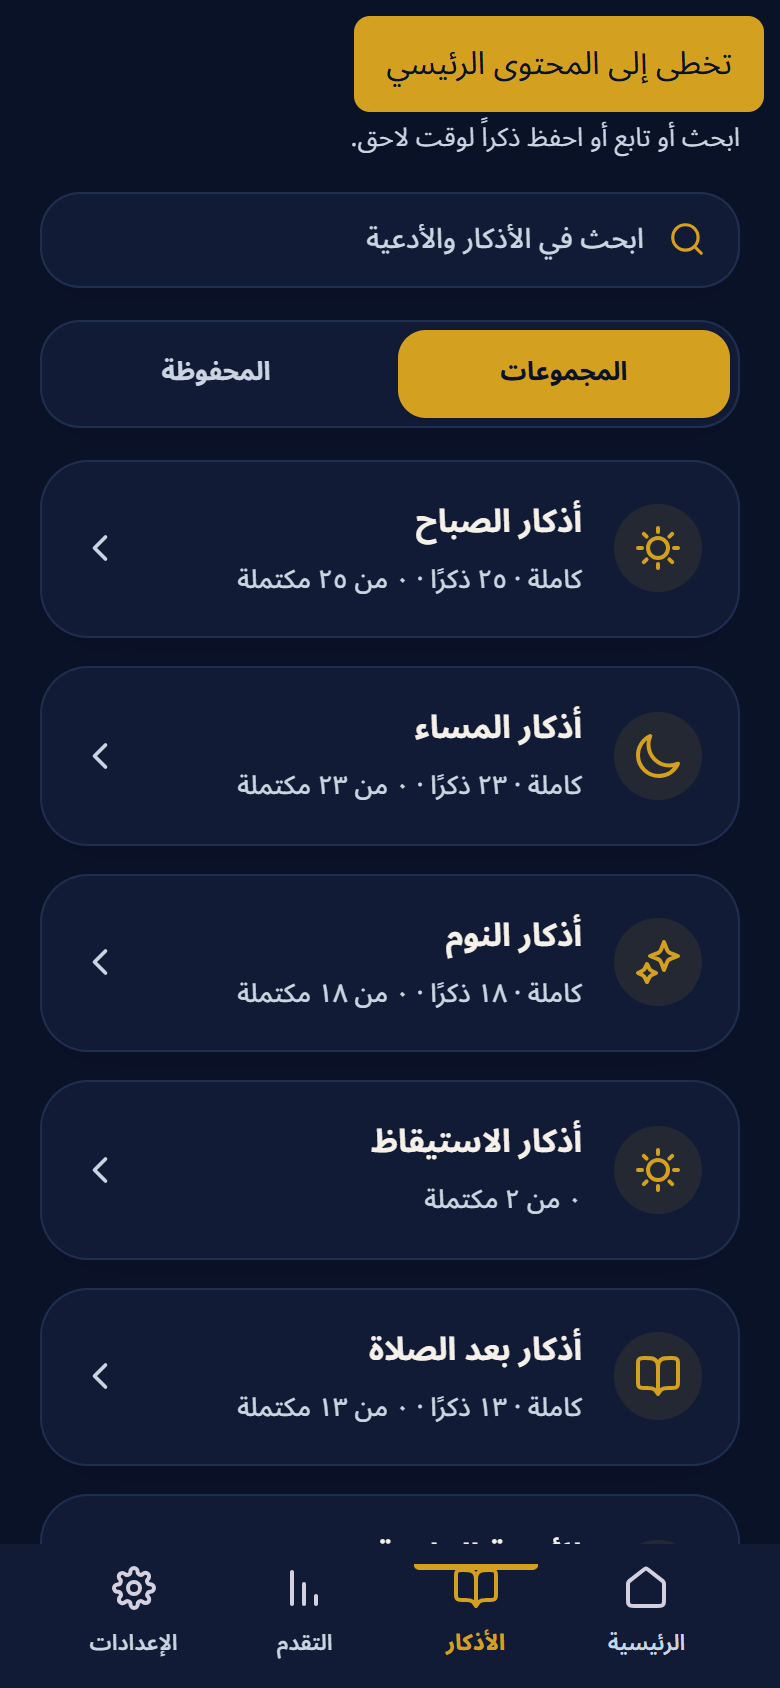
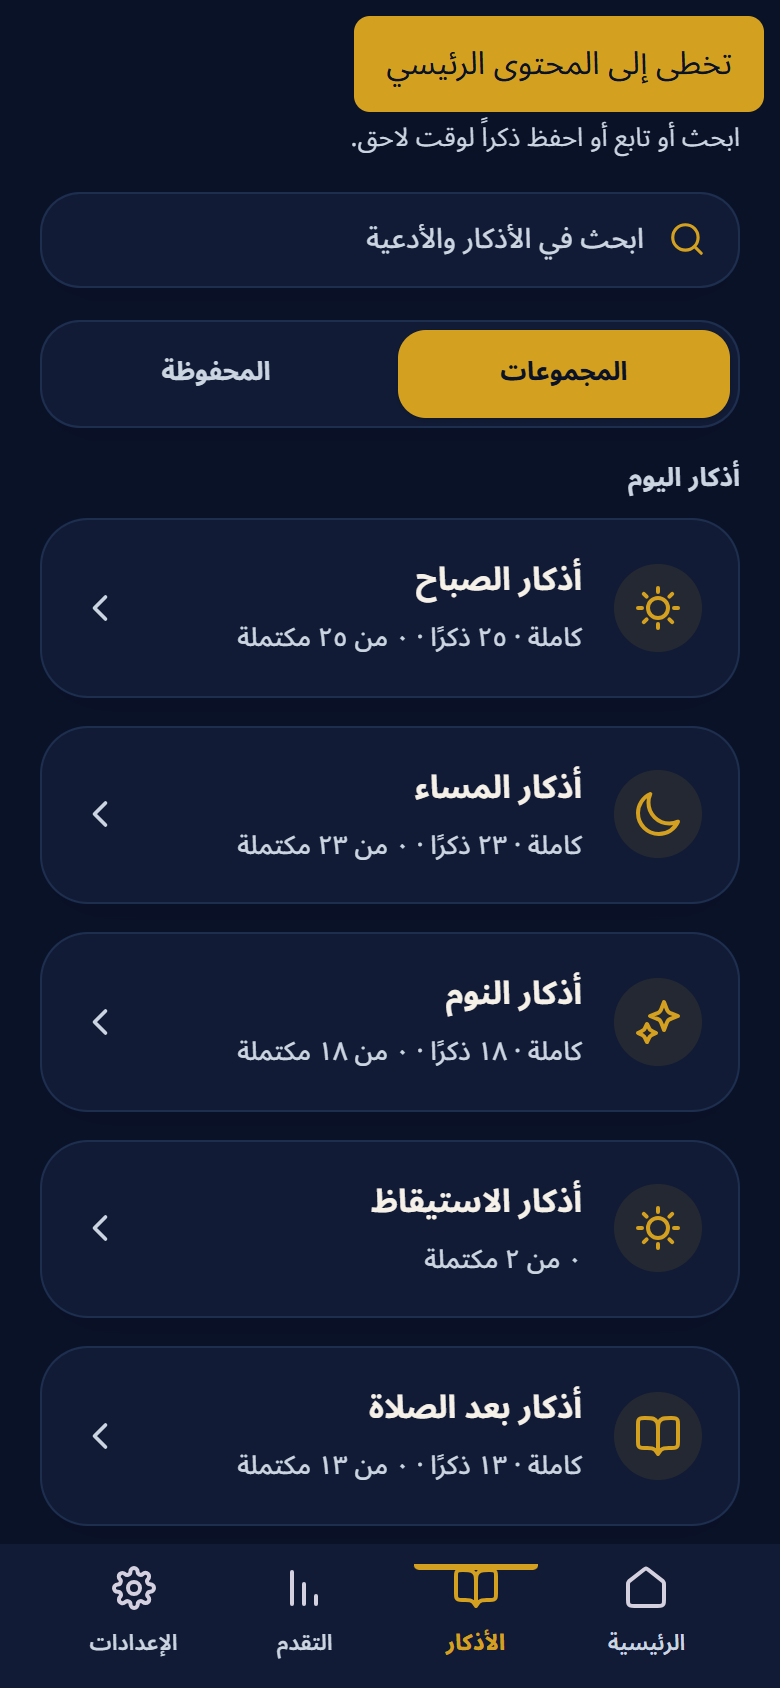
feat(library): group the collection index into five themes
Phase 06 deferred this because group names are a religious-content
decision, not a layout one. The grouping was proposed for review and
approved as drafted: Daily Azkar, Place & Travel, Everyday Life, Hardship
& Healing, More Azkar & Du'as.

Built on the routine/occasional split the data already encodes rather than
inventing a parallel taxonomy. Presentation-only: category IDs, ordering
within groups and all content are untouched, per the phase's prohibition on
ID migration. friday_kahf stays ungrouped because the Library already
filters it out — it is reached through the Friday screen.

A near-miss worth recording: the Arabic names first landed as mojibake
("Ø£Ø°ÙØ§Ø± Ø§ÙÙÙÙ") because the script writing them round-tripped UTF-8
through unicode_escape. Every test passed — unit, e2e and axe — because
none asserted on Arabic copy. It was caught only by looking at a rendered
screenshot.

So this also adds i18n/encoding.test.ts, which scans the whole Arabic
bundle for Latin-1 mojibake and names the offending key path. Verified by
reintroducing the corruption and confirming it fails. It protects all
Arabic copy, not just these five strings.

categoryGroups.test.ts asserts every Library category appears in exactly
one group and that none is empty, so a future category cannot be silently
dropped from the index.

Recorded as DEC-036. 274 unit + 253 e2e passing.

diff --git a/src/app/screens/AzkarLibraryScreen.tsx b/src/app/screens/AzkarLibraryScreen.tsx
@@ -13,7 +13,7 @@ import {
   isRoutineCategory,
   registerLazyCollection,
 } from "../content/azkar";
-import { CATEGORIES, isOccasionalCategory } from "../content/categories";
+import { CATEGORIES, CATEGORY_GROUPS, isOccasionalCategory } from "../content/categories";
 import { COMPREHENSIVE_DUAS } from "../content/comprehensiveDuas";
 import { formatNumerals } from "../formatting";
 import { t } from "../i18n";
@@ -96,64 +96,77 @@ export function AzkarLibraryScreen({
         >
           {section === "collections" ? (
             <>
-              <div className="grid grid-cols-1 md:grid-cols-2 gap-3.5">
-                {CATEGORIES.filter((category) => category.id !== "friday_kahf").map((category) => {
-                  const isComprehensiveDuas = category.id === "comprehensive_duas";
-                  const routineMode = isRoutineCategory(category.id) ? routineModes[category.id] : "complete";
-                  const visibleItems = isComprehensiveDuas
-                    ? COMPREHENSIVE_DUA_ITEMS
-                    : getAzkarForMode(category.id, routineMode);
-                  const progress = isRoutineCategory(category.id)
-                    ? getRoutineProgress(category.id, routineMode, completed[category.id] ?? [])
-                    : {
-                        done: visibleItems.filter((item) => completed[category.id]?.has(item.id)).length,
-                        total: visibleItems.length,
-                      };
-                  const { done, total } = progress;
-                  const isOccasional = isOccasionalCategory(category.id);
-                  const routineSummary = isRoutineCategory(category.id)
-                    ? t(language, `category.${routineMode}Summary`, { count: formatNumerals(total, language) })
-                    : undefined;
-                  const progressLabel = t(language, "library.progressOfTotal", {
-                    done: formatNumerals(done, language),
-                    total: formatNumerals(total, language),
-                  });
-
-                  return (
-                    <CategoryCard
-                      key={category.id}
-                      id={category.id}
-                      title={isArabic ? category.nameArabic : category.name}
-                      icon={category.icon}
-                      direction={direction}
-                      isOccasional={isOccasional}
-                      totalCount={total}
-                      completedCount={done}
-                      routineSummary={routineSummary}
-                      progressText={t(language, "library.progressOfTotal", {
+              {CATEGORY_GROUPS.map((group) => (
+                <section key={group.id} aria-labelledby={`library-group-${group.id}`} className="mb-6 last:mb-0">
+                  <h2
+                    id={`library-group-${group.id}`}
+                    className="mb-2.5 text-[0.8125rem] font-bold uppercase tracking-wide text-muted-foreground"
+                    dir="auto"
+                  >
+                    {t(language, `library.groups.${group.labelKey}`)}
+                  </h2>
+                  <div className="grid grid-cols-1 md:grid-cols-2 gap-3.5">
+                    {group.categories.map((categoryId) => {
+                      const category = CATEGORIES.find((item) => item.id === categoryId);
+                      if (!category) return null;
+                      const isComprehensiveDuas = category.id === "comprehensive_duas";
+                      const routineMode = isRoutineCategory(category.id) ? routineModes[category.id] : "complete";
+                      const visibleItems = isComprehensiveDuas
+                        ? COMPREHENSIVE_DUA_ITEMS
+                        : getAzkarForMode(category.id, routineMode);
+                      const progress = isRoutineCategory(category.id)
+                        ? getRoutineProgress(category.id, routineMode, completed[category.id] ?? [])
+                        : {
+                            done: visibleItems.filter((item) => completed[category.id]?.has(item.id)).length,
+                            total: visibleItems.length,
+                          };
+                      const { done, total } = progress;
+                      const isOccasional = isOccasionalCategory(category.id);
+                      const routineSummary = isRoutineCategory(category.id)
+                        ? t(language, `category.${routineMode}Summary`, { count: formatNumerals(total, language) })
+                        : undefined;
+                      const progressLabel = t(language, "library.progressOfTotal", {
                         done: formatNumerals(done, language),
                         total: formatNumerals(total, language),
-                      })}
-                      occasionalSubtitle={`${formatNumerals(total, language)} ${isArabic ? "أذكار سياقية" : "Occasional supplications"}`}
-                      ariaLabel={
-                        isOccasional
-                          ? `${isArabic ? category.nameArabic : category.name}, ${formatNumerals(total, language)} ${
-                              isArabic ? "أذكار" : "supplications"
-                            }`
-                          : [isArabic ? category.nameArabic : category.name, routineSummary, progressLabel]
-                              .filter(Boolean)
-                              .join(", ")
-                      }
-                      onClick={() => {
-                        if (isComprehensiveDuas) {
-                          registerLazyCollection("comprehensive_duas", COMPREHENSIVE_DUAS);
-                        }
-                        onCategory(category.id);
-                      }}
-                    />
-                  );
-                })}
-              </div>
+                      });
+
+                      return (
+                        <CategoryCard
+                          key={category.id}
+                          id={category.id}
+                          title={isArabic ? category.nameArabic : category.name}
+                          icon={category.icon}
+                          direction={direction}
+                          isOccasional={isOccasional}
+                          totalCount={total}
+                          completedCount={done}
+                          routineSummary={routineSummary}
+                          progressText={t(language, "library.progressOfTotal", {
+                            done: formatNumerals(done, language),
+                            total: formatNumerals(total, language),
+                          })}
+                          occasionalSubtitle={`${formatNumerals(total, language)} ${isArabic ? "أذكار سياقية" : "Occasional supplications"}`}
+                          ariaLabel={
+                            isOccasional
+                              ? `${isArabic ? category.nameArabic : category.name}, ${formatNumerals(total, language)} ${
+                                  isArabic ? "أذكار" : "supplications"
+                                }`
+                              : [isArabic ? category.nameArabic : category.name, routineSummary, progressLabel]
+                                  .filter(Boolean)
+                                  .join(", ")
+                          }
+                          onClick={() => {
+                            if (isComprehensiveDuas) {
+                              registerLazyCollection("comprehensive_duas", COMPREHENSIVE_DUAS);
+                            }
+                            onCategory(category.id);
+                          }}
+                        />
+                      );
+                    })}
+                  </div>
+                </section>
+              ))}
               {onOpenCustomCounter && (
                 <div className="mt-4">
                   <TasbeehCounterButton onClick={onOpenCustomCounter} language={language} direction={direction} />

diff --git a/src/app/i18n/encoding.test.ts b/src/app/i18n/encoding.test.ts
@@ -1,0 +1,36 @@
+import { describe, expect, it } from "vitest";
+import ar from "./ar";
+
+/** Sequences that only appear when UTF-8 Arabic has been decoded as Latin-1. */
+const MOJIBAKE = /[\u00d8\u00d9\u00da\u00c3\u00c2][\u0080-\u00bf]/;
+
+function collectStrings(value: unknown, path = "", out: Array<[string, string]> = []) {
+  if (typeof value === "string") {
+    out.push([path, value]);
+  } else if (value && typeof value === "object") {
+    for (const [key, child] of Object.entries(value)) {
+      collectStrings(child, path ? `${path}.${key}` : key, out);
+    }
+  }
+  return out;
+}
+
+describe("Arabic copy encoding", () => {
+  const entries = collectStrings(ar);
+
+  it("has no mojibake from a Latin-1 round trip", () => {
+    // A grouping label shipped as "Ø£Ø°ÙØ§Ø± Ø§ÙÙÙÙ" once because a script
+    // wrote the file through unicode_escape. Tests passed because they only
+    // asserted on English.
+    const corrupted = entries.filter(([, text]) => MOJIBAKE.test(text));
+    expect(corrupted.map(([path]) => path)).toEqual([]);
+  });
+
+  it("keeps Arabic script in Arabic copy", () => {
+    const arabic = /[\u0600-\u06ff]/;
+    // A handful of values are legitimately Latin (language names, codes), so
+    // this asserts the overwhelming majority rather than every entry.
+    const withArabic = entries.filter(([, text]) => arabic.test(text));
+    expect(withArabic.length / entries.length).toBeGreaterThan(0.8);
+  });
+});

diff --git a/src/app/content/categoryGroups.test.ts b/src/app/content/categoryGroups.test.ts
@@ -1,0 +1,34 @@
+import { describe, expect, it } from "vitest";
+import { CATEGORIES, CATEGORY_GROUPS } from "./categories";
+
+describe("CATEGORY_GROUPS", () => {
+  const grouped = CATEGORY_GROUPS.flatMap((group) => group.categories);
+
+  it("covers every library category exactly once", () => {
+    // friday_kahf is reached through the Friday screen, so the Library filters
+    // it out and it is deliberately ungrouped.
+    const expected = CATEGORIES.map((category) => category.id).filter((id) => id !== "friday_kahf");
+
+    expect([...grouped].sort()).toEqual([...expected].sort());
+    expect(new Set(grouped).size, "a category appears in more than one group").toBe(grouped.length);
+  });
+
+  it("does not group friday_kahf", () => {
+    expect(grouped).not.toContain("friday_kahf");
+  });
+
+  it("references only real categories", () => {
+    const known = new Set(CATEGORIES.map((category) => category.id));
+    for (const id of grouped) {
+      expect(known.has(id), `unknown category id in a group: ${id}`).toBe(true);
+    }
+  });
+
+  it("has no empty groups and uses unique ids", () => {
+    for (const group of CATEGORY_GROUPS) {
+      expect(group.categories.length, `${group.id} is empty`).toBeGreaterThan(0);
+    }
+    const ids = CATEGORY_GROUPS.map((group) => group.id);
+    expect(new Set(ids).size).toBe(ids.length);
+  });
+});

diff --git a/src/app/content/categories.ts b/src/app/content/categories.ts
@@ -38,3 +38,34 @@ export const ROUTINE_CATEGORY_IDS: ReadonlySet<CategoryId> = new Set([
 export function isOccasionalCategory(catId: CategoryId): boolean {
   return !ROUTINE_CATEGORY_IDS.has(catId);
 }
+
+/**
+ * Presentation-only grouping for the Library index.
+ *
+ * Category IDs, their order within a group, and all content are untouched —
+ * Phase 06 prohibits ID migration, and this exists purely so 17 collections
+ * scan as a short list of themes instead of one flat run.
+ *
+ * `friday_kahf` is deliberately absent: the Library already filters it out
+ * because it is reached through the Friday screen.
+ */
+export const CATEGORY_GROUPS: ReadonlyArray<{
+  id: string;
+  /** i18n key under `library.groups`. */
+  labelKey: string;
+  categories: readonly CategoryId[];
+}> = [
+  {
+    id: "daily",
+    labelKey: "daily",
+    categories: ["morning", "evening", "before_sleep", "waking_up", "after_prayer"],
+  },
+  { id: "place", labelKey: "place", categories: ["home", "mosque", "travel"] },
+  { id: "everyday", labelKey: "everyday", categories: ["food_drink", "restroom", "clothing"] },
+  { id: "hardship", labelKey: "hardship", categories: ["distress_anxiety", "illness_ruqyah"] },
+  {
+    id: "more",
+    labelKey: "more",
+    categories: ["comprehensive_duas", "social_community", "natural_events", "miscellaneous"],
+  },
+];

diff --git a/src/app/i18n/ar.ts b/src/app/i18n/ar.ts
@@ -135,6 +135,13 @@ const ar = {
     sourceLabel: "المصدر",
   },
   library: {
+    groups: {
+      daily: "أذكار اليوم",
+      place: "أذكار المكان والسفر",
+      everyday: "أذكار الحياة اليومية",
+      hardship: "أذكار الشدة والعافية",
+      more: "أذكار وأدعية أخرى",
+    },
     title: "مكتبة الأذكار",
     subtitle: "ابحث أو تابع أو احفظ ذكراً لوقت لاحق.",
     search: "ابحث في الأذكار والأدعية",

diff --git a/src/app/i18n/en.ts b/src/app/i18n/en.ts
@@ -133,6 +133,13 @@ const en = {
     sourceLabel: "Source",
   },
   library: {
+    groups: {
+      daily: "Daily Azkar",
+      place: "Place & Travel",
+      everyday: "Everyday Life",
+      hardship: "Hardship & Healing",
+      more: "More Azkar & Du'as",
+    },
     title: "Azkar Library",
     subtitle: "Search, continue, or save a remembrance for later.",
     search: "Search adhkar and duas",

diff --git a/docs/agent/DECISION_LOG.md b/docs/agent/DECISION_LOG.md
@@ -658,3 +658,18 @@ Record user-approved product, design and architectural decisions here. Do not er
 - **Fix and its consequence:** a dark scrim now sits behind the hero column in every theme. That surfaced a fourth failure the first three had masked — the gold heading used `text-primary`, which is a **dark** gold (`#835806`) in Light and dropped to 1.07:1 once the backing darkened. Rather than hardcode a hex, added `--on-media` / `--on-media-muted` / `--on-media-accent` tokens: content over photography sits on a dark scrim in every theme, so it needs light-on-dark values that deliberately do **not** follow `--primary`.
 - **Tests/evidence required:** 13 tests in the new spec. Contrast is asserted per mode with a named failure message so a regression identifies the mode. Full `pnpm check` + `pnpm test:e2e` (268 unit, 253 e2e).
 - **Supersedes:** None
+
+---
+
+## DEC-036 — Library taxonomy grouping
+
+- **Date:** 2026-08-07
+- **Status:** Approved
+- **Owner:** User (approved the proposed groups and names before implementation)
+- **Related phase:** Phase 06 (deferred item)
+- **Context:** Phase 06 Step 1 item 4 called for user-facing grouping without changing source content. It was deferred because group names are a religious-content decision, not a layout one. The grouping was proposed for review and approved as drafted.
+- **Decision:** Five presentation-only groups in `CATEGORY_GROUPS` — Daily Azkar (5), Place & Travel (3), Everyday Life (3), Hardship & Healing (2), More Azkar & Du'as (4). Built on the routine/occasional split the data already encodes rather than inventing a parallel taxonomy.
+- **Explicitly unchanged:** category IDs, ordering within groups, and all content. The phase prohibits ID migration and this respects that — `CATEGORY_GROUPS` references existing IDs and nothing else moves. `friday_kahf` stays ungrouped because the Library already filters it out; it is reached through the Friday screen.
+- **A corrupted-Arabic near-miss, worth recording.** The Arabic group names shipped to the working tree as mojibake (`Ø£Ø°ÙØ§Ø± Ø§ÙÙÙÙ`) because the script that wrote them round-tripped UTF-8 through `unicode_escape`. **Every test passed** — unit, e2e and axe — because none of them asserted on Arabic copy. It was caught only by looking at a rendered screenshot. Added `src/app/i18n/encoding.test.ts`, which scans the whole Arabic bundle for Latin-1 mojibake sequences and reports the offending key path; verified by reintroducing the corruption and confirming it fails. This protects all Arabic copy, not just these five strings.
+- **Tests/evidence required:** `categoryGroups.test.ts` asserts every Library category appears in exactly one group, no group is empty, ids are unique, and `friday_kahf` is absent — so a future category cannot be silently dropped from the index. Browser check confirmed all 17 cards render across the five headings. Full `pnpm check` + `pnpm test:e2e` (274 unit, 253 e2e).
+- **Supersedes:** The "not done / deferred" taxonomy note in DEC-032.
